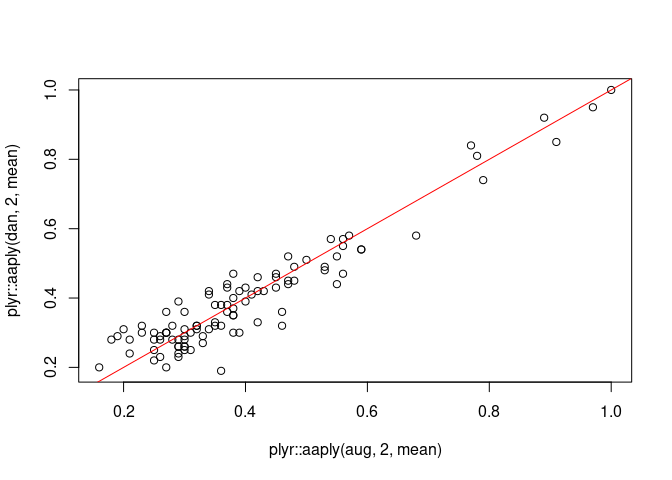
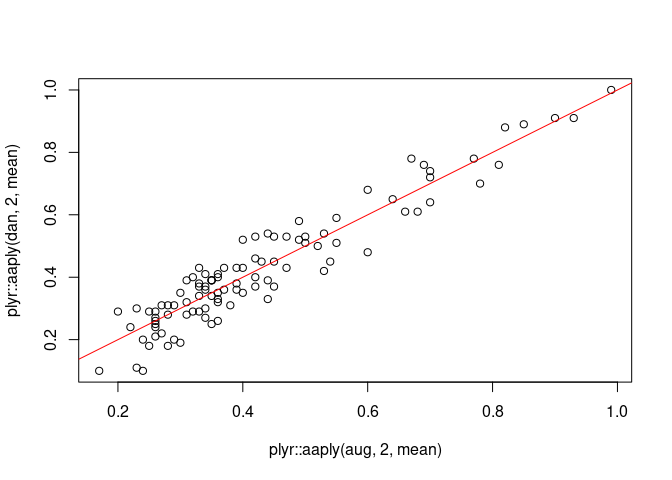
init Rproj

diff --git a/compare.md b/compare.md
@@ -7,7 +7,7 @@ Dec 5, 2023
 
 ## Comparaison of Augustin and Daniel samplers
 
-### Test sampler 1
+### Test sampler r2 q
 
 ``` r
 a=default_a
@@ -41,8 +41,9 @@ plot(sort(dan[,1]),sort(aug[,1]));abline(0,1,col='red')
 plot(sort(dan[,2]),sort(aug[,2]));abline(0,1,col='red')
 ```
 
-![](compare_files/figure-gfm/unnamed-chunk-3-2.png)<!-- --> \#\#\# Test
-sampler 2
+![](compare_files/figure-gfm/unnamed-chunk-3-2.png)<!-- -->
+
+### Test sampler z\_i
 
 ``` r
 a=default_a
@@ -78,11 +79,11 @@ dan=sample_zi_cond_zj_y_u_x_phi_gamma(z,i=1,tilde_y,ttildeytildey,xx,q,tt,k,gamm
 mean(aug);mean(dan)
 ```
 
-    FALSE [1] 0.977
+    FALSE [1] 0.309
 
-    FALSE [1] 0.975
+    FALSE [1] 0.299
 
-### Test sampler 3
+### Test sampler z
 
 ``` r
 a=default_a
@@ -126,7 +127,7 @@ plot(sort(aug|>plyr::aaply(1,mean)),sort(dan|>plyr::aaply(1,mean)));abline(0,1,c
 
 ![](compare_files/figure-gfm/unnamed-chunk-5-2.png)<!-- -->
 
-### Test sampler 4
+### Test sampler sigma2
 
 ``` r
 a=default_a
@@ -207,9 +208,7 @@ plot(aug,dan);abline(0,1,col='red')
 
 ![](compare_files/figure-gfm/unnamed-chunk-6-1.png)<!-- -->
 
-### V. test sampler 5
-
-## **Question 2 - (V)**
+### V. test sampler beta
 
 ``` r
 a=default_a
